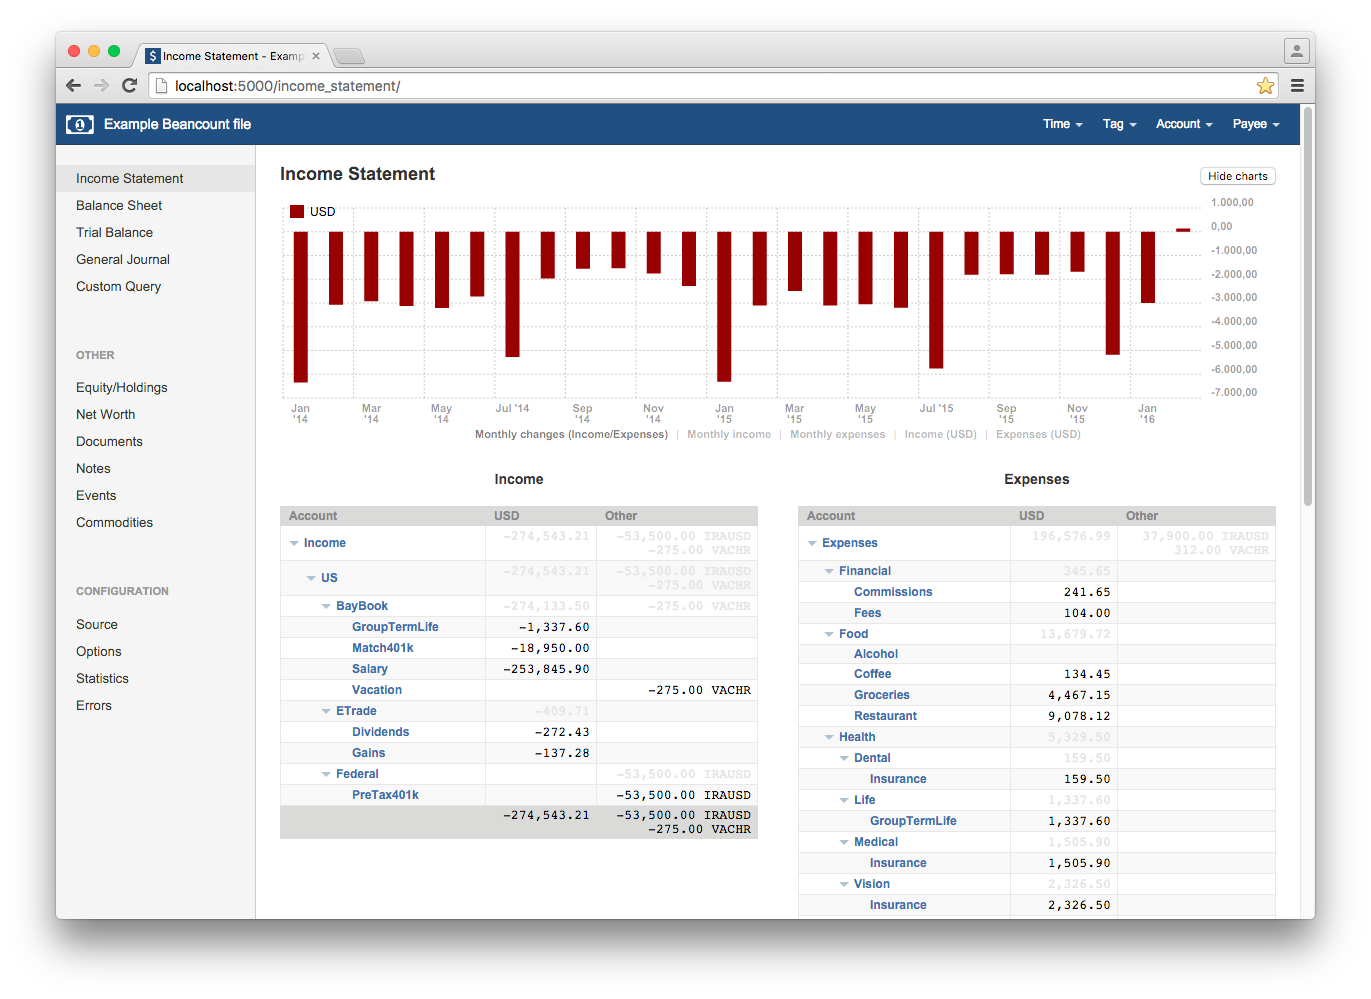
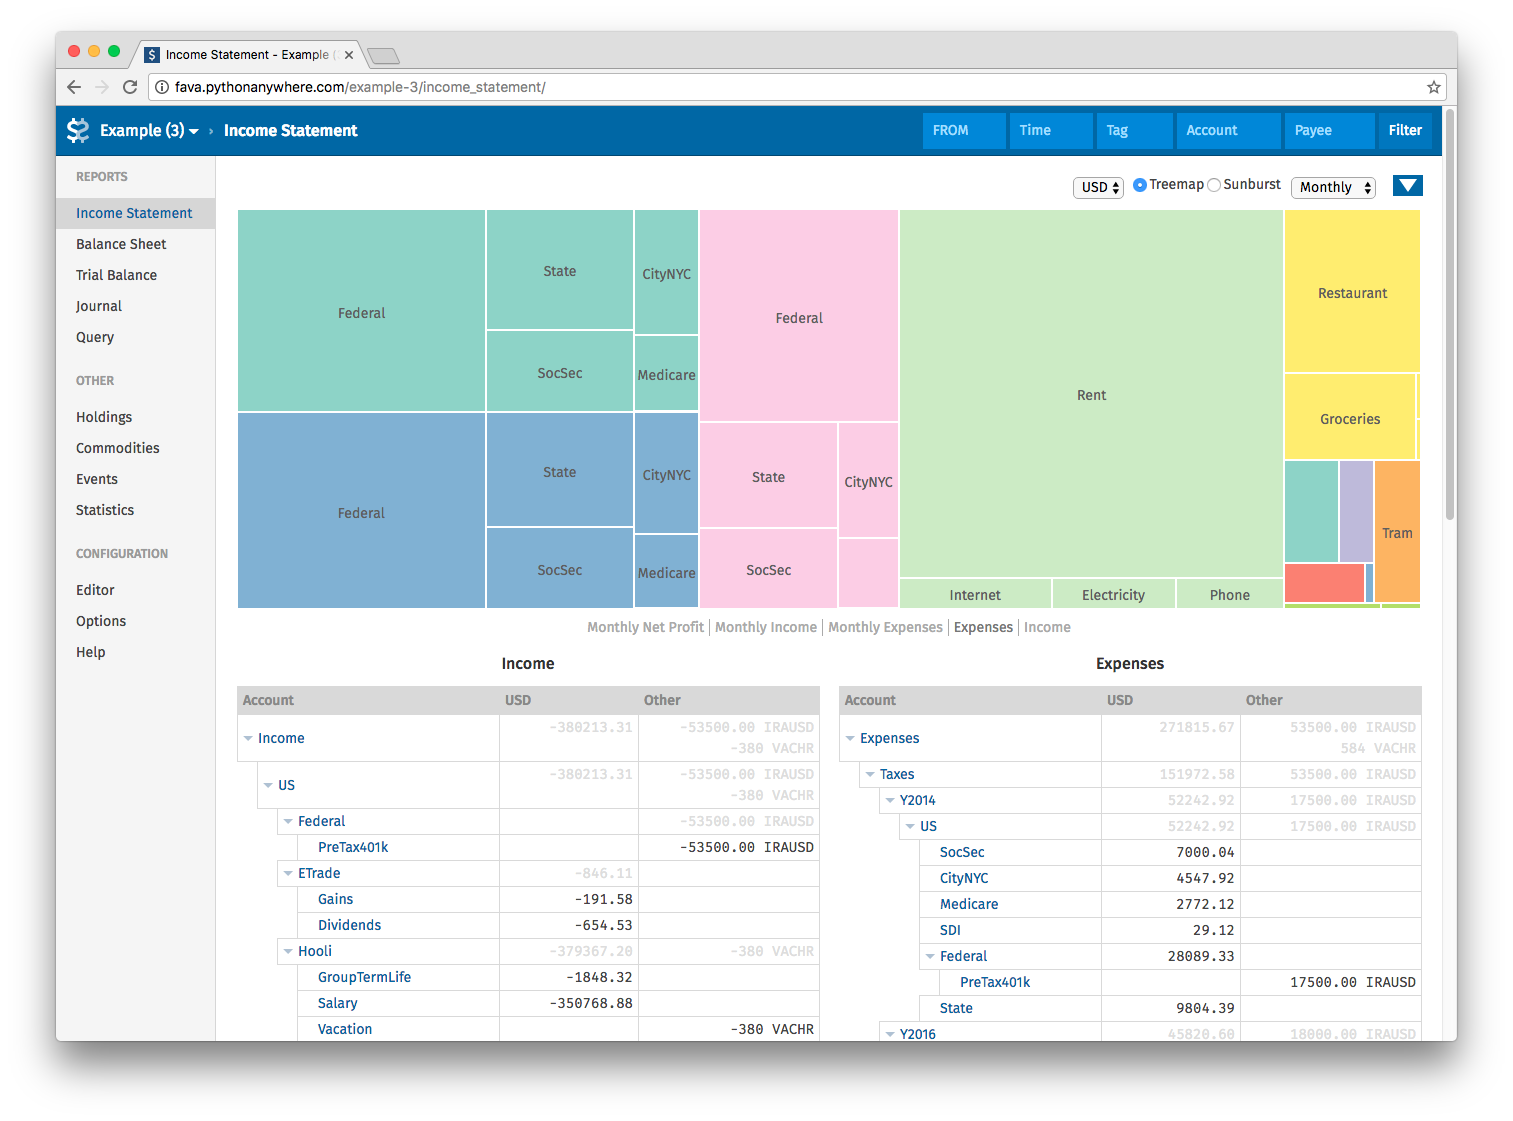
Update screenshot and add it to README

diff --git a/README.rst b/README.rst
@@ -28,3 +28,9 @@ and visit the web interface at `http://localhost:5000
 If you want to hack on Fava or run a development version, see the
 `Development <https://beancount.github.io/fava/development.html>`__ page on the
 website for details. Contributions are very welcome!
+
+.. image:: https://raw.githubusercontent.com/beancount/fava/master/docs/static/screenshot.png
+    :alt: Fava Screenshot
+    :width: 100%
+    :align: center
+    :target: http://fava.pythonanywhere.com
